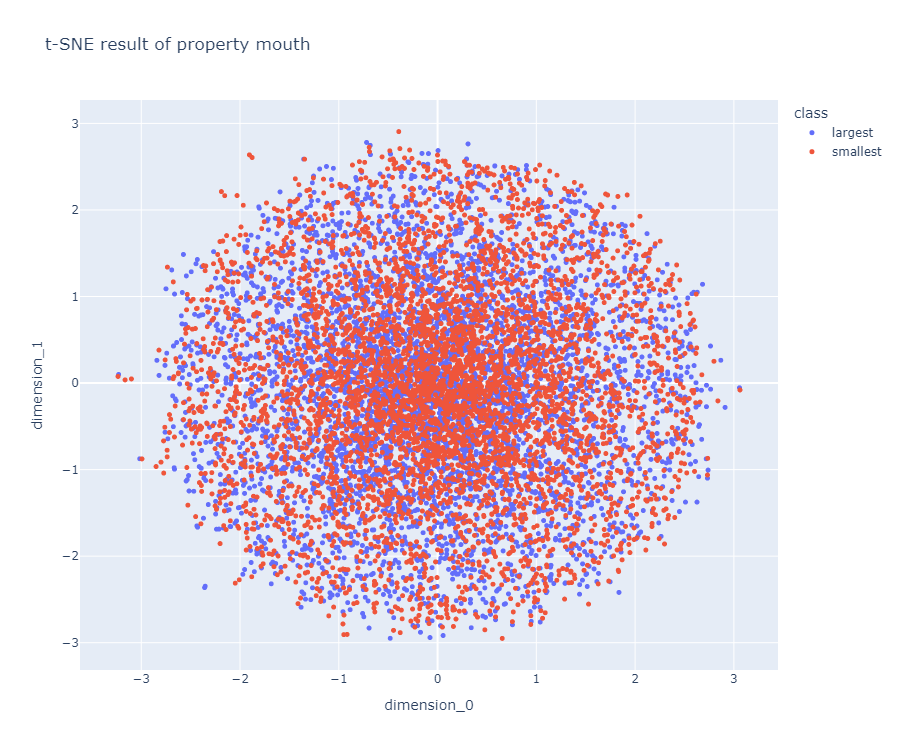
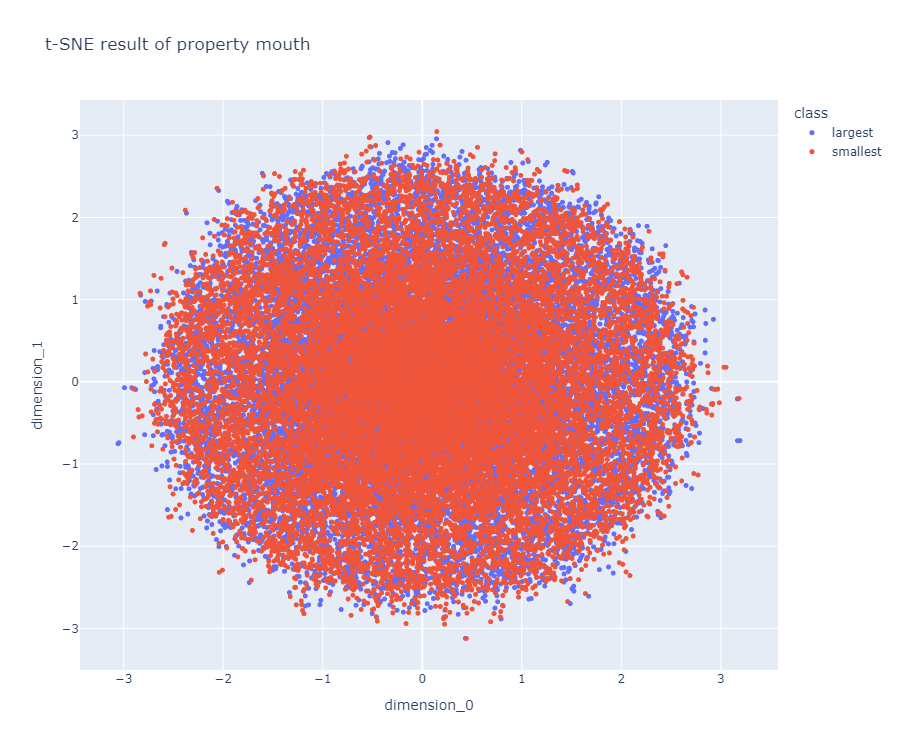
ADD: test FAILED with 100K samples & top/bottom 20K

Changed region(s): [[0.1244, 0.1533, 0.84, 0.8587], [0.4667, 0.8893, 0.4978, 0.92], [0.2489, 0.8893, 0.28, 0.92]]

diff --git a/2025_05_02_OhLoRA_v2/stylegan/stylegan_vectorfind_v6/run_vector_find.py b/2025_05_02_OhLoRA_v2/stylegan/stylegan_vectorfind_v6/run_vector_find.py
@@ -36,7 +36,7 @@ SVMS_PER_EACH_PROPERTY = 1      # also z-vector count for each property
 #                                    'mouth_cnn_score': list(float),
 #                                    'pose_cnn_score': list(float)}
 
-def sample_z_and_compute_property_scores(finetune_v1_generator, property_score_cnn, n=25000):
+def sample_z_and_compute_property_scores(finetune_v1_generator, property_score_cnn, n=100000):
     save_dir = f'{PROJECT_DIR_PATH}/stylegan/stylegan_vectorfind_v6/inference_test_during_training'
 
     z = np.random.normal(0, 1, size=(n, ORIGINAL_HIDDEN_DIMS_Z)).astype(np.float64)
@@ -102,7 +102,7 @@ def sample_z_and_compute_property_scores(finetune_v1_generator, property_score_c
 #                          'mouth_largest': list(int), 'mouth_smallest': list(int),
 #                          'pose_largest': list(int), 'pose_smallest': list(int)}
 
-def extract_best_and_worst_k_images(property_scores, k=5000):
+def extract_best_and_worst_k_images(property_scores, k=20000):
 
     # sort scores with index
     eyes_cnn_scores_with_idx = []
